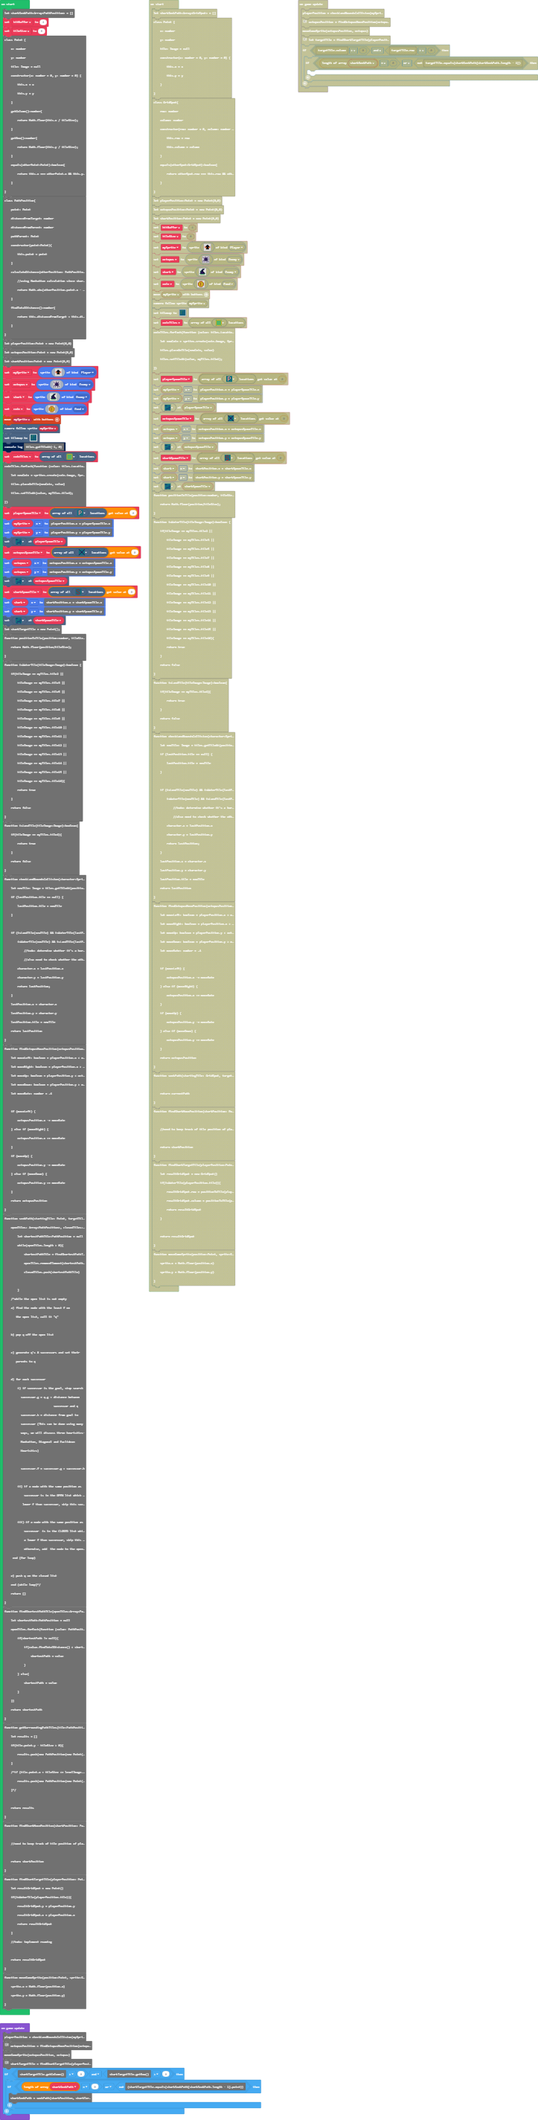
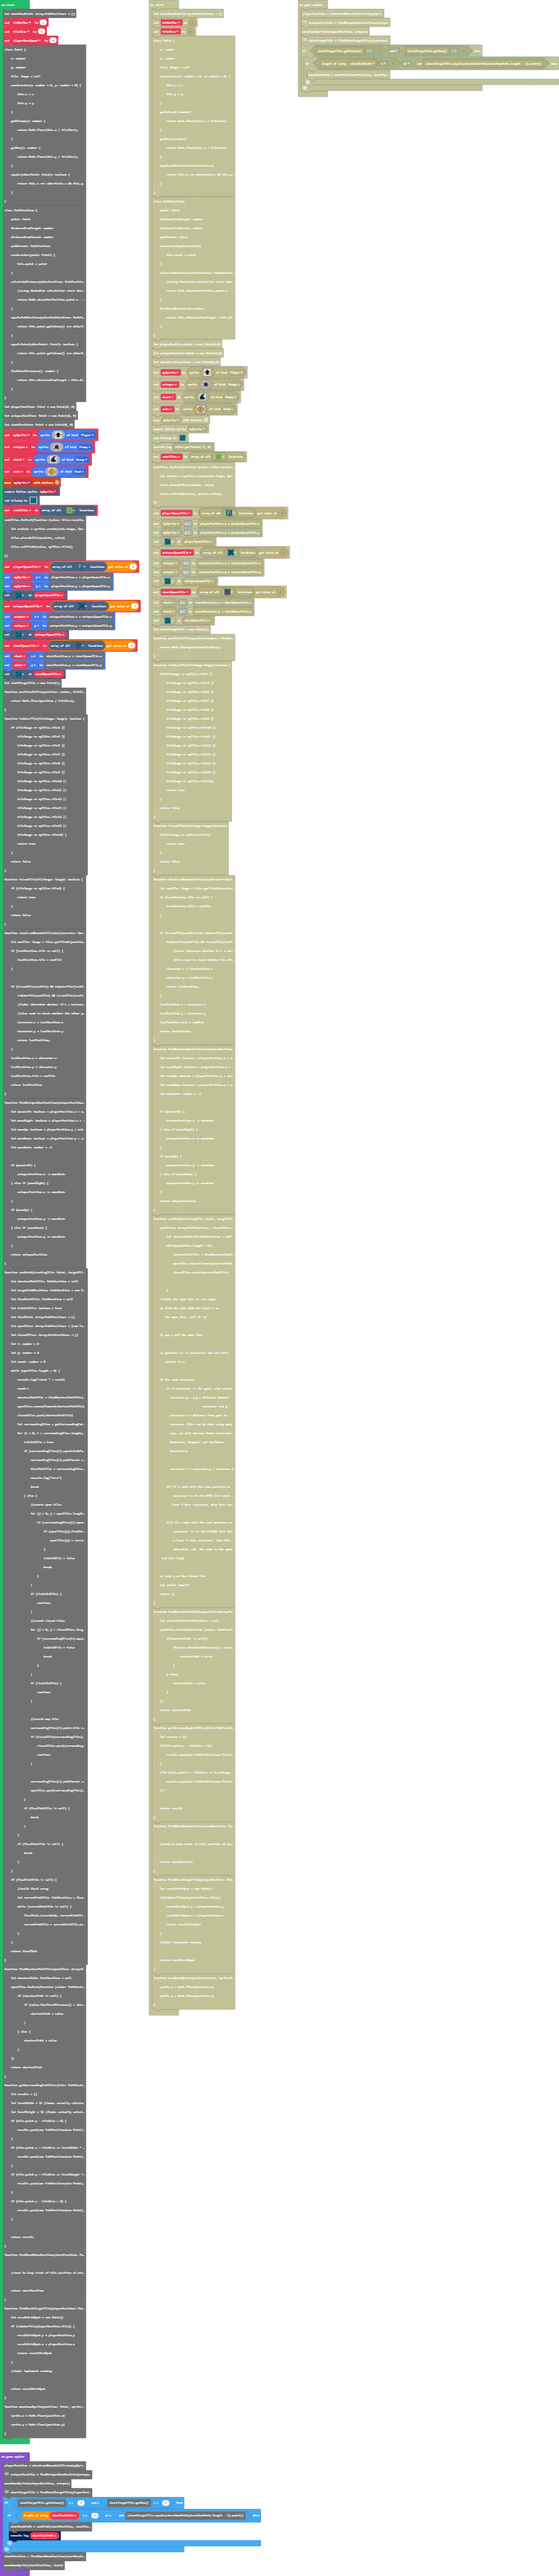
Working on implementing a waypoint system for shark navigation

Changed region(s): [[0.0, 0.0, 0.5477, 0.9996], [0.5173, 0.0, 1.0, 0.0625]]

diff --git a/main.ts b/main.ts
@@ -238,15 +238,26 @@ namespace myTiles {
         4 4 5 4 4 5 4 4
         4 4 5 4 4 5 4 4
     `
+    //% blockIdentity=images._tile
+    export const tile22 = img`
+        b b b 5 5 b b b
+        b 5 b 5 5 b 5 b
+        b b b 5 b b b b
+        5 5 b b b 5 5 5
+        5 5 5 b b b 5 5
+        b b b b 5 b b b
+        b 5 b 5 5 b 5 b
+        b b b 5 5 b b b
+    `
 }
 sprites.onOverlap(SpriteKind.Player, SpriteKind.Food, function (sprite, otherSprite) {
     info.setScore(info.score() + 1)
     otherSprite.destroy()
 })
 let sharkSeekPath: Array<PathPosition> = []
-const hitBuffer = 4
-const tileSize = 8
-const playerMoveSpeed = 40
+let hitBuffer = 4
+let tileSize = 8
+let playerMoveSpeed = 40
 class Point {
     x: number
     y: number
@@ -357,45 +368,44 @@ let coin = sprites.create(img`
 controller.moveSprite(mySprite)
 scene.cameraFollowSprite(mySprite)
 tiles.setTilemap(tiles.createTilemap(
-    hex`2000200001010101010101010101010101010101010101010101010101010101010101010101010101010101010101010101010101010101010101010101010101010101010110010101010101010101010101010101010101010101010101110101010101010101010101010101010101010101010101010101010101010101010101010101010101010101010101010101010101010101010101010101010101010101010101010101011313010101010101010101010101010101010101010101010101010101010102030303030303030303030303030314010101010101010101010101010101010203030303030303030303030303031401010101010101010101010101010101020503040101010101010101010101010101010101010101010101010101010102030304011201010101010101010101010101010101010101010101010101010203050401010101010101010101010101010101010101010101010101010101020303040101010101010101010101010101010101010101010101010101010102050304010101010101010101010101010101010101010101010101010101010203030401010101010101010101010101010101010101010101010101010101020305040101010101010101010101010101010101010101010101010101010102030304010101010101010101010101010101010101010101010101010101010205030401010101010101010101010101010101010101010101010101010101020303040101010101010101010101010101010101010101010101010101010102030504010101010101010101010101010101010101010101010101010101010203030401010101010101010101010101010101010101010101010101010101020503040101010101010101010101010101010101010101010101010101010101131301010101010101010101010101010101010101010101010101010101010101010101010101010101010101010101010101010101010101010101010101010101010101010101010101010101010101010101010101010101010101010101010101010101010101010101010101010101010101010101010101010101010101010101010101010101010101010101010101010101010101010101010101010101010101010101010101010101010101010101010101010101010101010101010101010101010101010101010101010101010101010101010101010101010101010101010101010101010101010101010101010101010101010101010101010101010101010101010101010101010101010101010101010101010101010101010101010101010101010101010101010101010101010101010101010101010101010101010101010101010101010101010101010101010101`,
-    img`
-        . . . . . . . . . . . . . . . . . . . . . . . . . . . . . . . .
-        . . . . . . . . . . . . . . . . . . . . . . . . . . . . . . . .
-        . . . . . . . . . . . . . . . . . . . . . . . . . . . . . . . .
-        . . . . . . . . . . . . . . . . . . . . . . . . . . . . . . . .
-        . . . . . . . . . . . . . . . . . . . . . . . . . . . . . . . .
-        . . . . . . . . . . . . . . . . . . . . . . . . . . . . . . . .
-        . . . . . . . . . . . . . . . . . . . . . . . . . . . . . . . .
-        . . . . . . . . . . . . . . . . . . . . . . . . . . . . . . . .
-        . . . . . . . . . . . . . . . . . . . . . . . . . . . . . . . .
-        . . . . . . . . . . . . . . . . . . . . . . . . . . . . . . . .
-        . . . . . . . . . . . . . . . . . . . . . . . . . . . . . . . .
-        . . . . . . . . . . . . . . . . . . . . . . . . . . . . . . . .
-        . . . . . . . . . . . . . . . . . . . . . . . . . . . . . . . .
-        . . . . . . . . . . . . . . . . . . . . . . . . . . . . . . . .
-        . . . . . . . . . . . . . . . . . . . . . . . . . . . . . . . .
-        . . . . . . . . . . . . . . . . . . . . . . . . . . . . . . . .
-        . . . . . . . . . . . . . . . . . . . . . . . . . . . . . . . .
-        . . . . . . . . . . . . . . . . . . . . . . . . . . . . . . . .
-        . . . . . . . . . . . . . . . . . . . . . . . . . . . . . . . .
-        . . . . . . . . . . . . . . . . . . . . . . . . . . . . . . . .
-        . . . . . . . . . . . . . . . . . . . . . . . . . . . . . . . .
-        . . . . . . . . . . . . . . . . . . . . . . . . . . . . . . . .
-        . . . . . . . . . . . . . . . . . . . . . . . . . . . . . . . .
-        . . . . . . . . . . . . . . . . . . . . . . . . . . . . . . . .
-        . . . . . . . . . . . . . . . . . . . . . . . . . . . . . . . .
-        . . . . . . . . . . . . . . . . . . . . . . . . . . . . . . . .
-        . . . . . . . . . . . . . . . . . . . . . . . . . . . . . . . .
-        . . . . . . . . . . . . . . . . . . . . . . . . . . . . . . . .
-        . . . . . . . . . . . . . . . . . . . . . . . . . . . . . . . .
-        . . . . . . . . . . . . . . . . . . . . . . . . . . . . . . . .
-        . . . . . . . . . . . . . . . . . . . . . . . . . . . . . . . .
-        . . . . . . . . . . . . . . . . . . . . . . . . . . . . . . . .
-    `,
-    [myTiles.tile0, myTiles.tile2, myTiles.tile3, myTiles.tile4, myTiles.tile5, myTiles.tile6, myTiles.tile7, myTiles.tile8, myTiles.tile9, myTiles.tile10, myTiles.tile11, myTiles.tile12, myTiles.tile13, myTiles.tile14, myTiles.tile15, myTiles.tile16, myTiles.tile17, myTiles.tile18, myTiles.tile19, myTiles.tile20, myTiles.tile21],
-    TileScale.Eight
-))
-
+            hex`2000200001010101010101010101010101010101010101010101010101010101010101010101010101010101010101010101010101010101010101010101010101010101010110010101010101010101010101010101010101010101010101110101010101010101010101010101010101010101010101010101010101010101010101010101010115010101010101010101010101010101010101150101010101010101010101010101011313010101010101010101010101010101010101010101010101010101010102030303030303030303030303030314010101010101010101010101120101010203030303030303030303030303031401010101010101010101010101010101020503040101010101010101010101010101010101010101010101010101010102030304011501010101010101010101011501010101010101010101010101010203050401010101010101010101010101010101010101010101010101010101020303040101010101010101010101010101010101010101010101010101010102050304010101010101010101010101010101010101010101010101010101010203030401010101010101010101010101010101010101010101010101010101020305040101010101010101010101010101010101010101010101010101010102030304010101010101010101010101010101010101010101010101010101010205030401010101010101010101010101010101010101010101010101010101020303040101010101010101010101010101010101010101010101010101010102030504010101010101010101010101010101010101010101010101010101010203030401010101010101010101010101010101010101010101010101010101020503040101010101010101010101010101010101010101010101010101010101131301010101010101010101010101010101010101010101010101010115010101010101150101010101010101010101010101010101010101010101010101010101010101010101010101010101010101010101010101010101010101010101010101010101010101010101010101010101010101010101010101010101010101010101010101010101010101010101010101010101010101010101010101010101010101010101010101010101010101010101010101010101010101010101010101010101010101010101010101010101010101010101010101010101010101010101010101010101010101010101010101010101010101010101010101010101010101010101010101010101010101010101010101010101010101010101010101010101010101010101010101010101010101010101010101010101010101010101010101010101010101010101010101010101010101`,
+            img`
+                . . . . . . . . . . . . . . . . . . . . . . . . . . . . . . . .
+                . . . . . . . . . . . . . . . . . . . . . . . . . . . . . . . .
+                . . . . . . . . . . . . . . . . . . . . . . . . . . . . . . . .
+                . . . . . . . . . . . . . . . . . . . . . . . . . . . . . . . .
+                . . . . . . . . . . . . . . . . . . . . . . . . . . . . . . . .
+                . . . . . . . . . . . . . . . . . . . . . . . . . . . . . . . .
+                . . . . . . . . . . . . . . . . . . . . . . . . . . . . . . . .
+                . . . . . . . . . . . . . . . . . . . . . . . . . . . . . . . .
+                . . . . . . . . . . . . . . . . . . . . . . . . . . . . . . . .
+                . . . . . . . . . . . . . . . . . . . . . . . . . . . . . . . .
+                . . . . . . . . . . . . . . . . . . . . . . . . . . . . . . . .
+                . . . . . . . . . . . . . . . . . . . . . . . . . . . . . . . .
+                . . . . . . . . . . . . . . . . . . . . . . . . . . . . . . . .
+                . . . . . . . . . . . . . . . . . . . . . . . . . . . . . . . .
+                . . . . . . . . . . . . . . . . . . . . . . . . . . . . . . . .
+                . . . . . . . . . . . . . . . . . . . . . . . . . . . . . . . .
+                . . . . . . . . . . . . . . . . . . . . . . . . . . . . . . . .
+                . . . . . . . . . . . . . . . . . . . . . . . . . . . . . . . .
+                . . . . . . . . . . . . . . . . . . . . . . . . . . . . . . . .
+                . . . . . . . . . . . . . . . . . . . . . . . . . . . . . . . .
+                . . . . . . . . . . . . . . . . . . . . . . . . . . . . . . . .
+                . . . . . . . . . . . . . . . . . . . . . . . . . . . . . . . .
+                . . . . . . . . . . . . . . . . . . . . . . . . . . . . . . . .
+                . . . . . . . . . . . . . . . . . . . . . . . . . . . . . . . .
+                . . . . . . . . . . . . . . . . . . . . . . . . . . . . . . . .
+                . . . . . . . . . . . . . . . . . . . . . . . . . . . . . . . .
+                . . . . . . . . . . . . . . . . . . . . . . . . . . . . . . . .
+                . . . . . . . . . . . . . . . . . . . . . . . . . . . . . . . .
+                . . . . . . . . . . . . . . . . . . . . . . . . . . . . . . . .
+                . . . . . . . . . . . . . . . . . . . . . . . . . . . . . . . .
+                . . . . . . . . . . . . . . . . . . . . . . . . . . . . . . . .
+                . . . . . . . . . . . . . . . . . . . . . . . . . . . . . . . .
+            `,
+            [myTiles.tile0,myTiles.tile2,myTiles.tile3,myTiles.tile4,myTiles.tile5,myTiles.tile6,myTiles.tile7,myTiles.tile8,myTiles.tile9,myTiles.tile10,myTiles.tile11,myTiles.tile12,myTiles.tile13,myTiles.tile14,myTiles.tile15,myTiles.tile16,myTiles.tile17,myTiles.tile18,myTiles.tile19,myTiles.tile20,myTiles.tile21,myTiles.tile22],
+            TileScale.Eight
+        ))
 let coinTiles = tiles.getTilesByType(myTiles.tile6)
 coinTiles.forEach(function (value: tiles.Location, index: number) {
     let newCoin = sprites.create(coin.image, SpriteKind.Food)
@@ -613,18 +623,17 @@ function moveGameSprite(position: Point, sprite: Sprite): void {
 }
 game.onUpdate(function () {
     playerPosition = checkLandBoundsCollision(mySprite, playerPosition)
-    // move octopus
+// move octopus
     octopusPosition = findOctopusMovePosition(octopusPosition, playerPosition, hitBuffer)
-    moveGameSprite(octopusPosition, octopus)
-    // move shark
+moveGameSprite(octopusPosition, octopus)
+// move shark
     sharkTargetTile = findSharkTargetTile(playerPosition)
-    if (sharkTargetTile.getColumn() > 0 && sharkTargetTile.getRow() > 0) {
+if (sharkTargetTile.getColumn() > 0 && sharkTargetTile.getRow() > 0) {
         if (sharkSeekPath.length == 0 || !(sharkTargetTile.equals(sharkSeekPath[sharkSeekPath.length - 1].point))) {
             sharkSeekPath = seekPath(sharkPosition, sharkTargetTile)
-            console.log(sharkSeekPath)
+console.log(sharkSeekPath)
         }
     }
     sharkPosition = findSharkMovePosition(sharkPosition, sharkSeekPath)
-    moveGameSprite(sharkPosition, shark)
+moveGameSprite(sharkPosition, shark)
 })
- 
